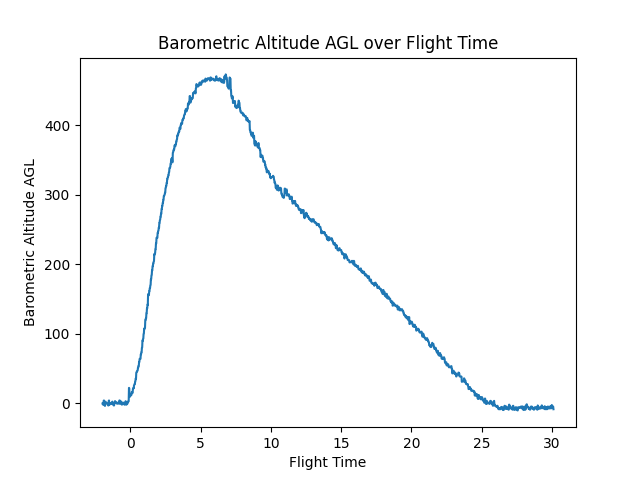
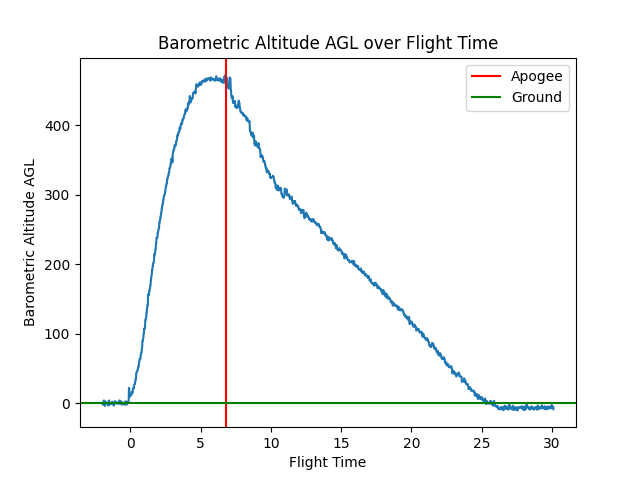
Betta

Changed region(s): [[0.125, 0.8125, 0.9062, 0.8438], [0.7188, 0.125, 0.875, 0.2188]]

diff --git a/Flight Data Analysis Tools/SimpleDataExtract/BlueRaven_LR.py b/Flight Data Analysis Tools/SimpleDataExtract/BlueRaven_LR.py
@@ -18,12 +18,21 @@ class CSVdata():
 class main:
     dataRaw = CSVdata() 
     filename = input("Enter the CSV file path: ") # replace with your actual file path
-    dataRaw.pull(filename) # replace 'your_filename.csv' with your actual file path
+    dataRaw.pull(filename) # load data from CSV
+    
+    # Baro Apogee
+    apogee = max(dataRaw.baro_alt_AGL)
+    apogee_time = dataRaw.flight_time[dataRaw.baro_alt_AGL.index(apogee)]
+    print(f"Apogee (Max Barometric Altitude AGL): {apogee} @ {apogee_time} seconds")
 
+    # Plot: Barometric Altitude AGL over Flight Time
     plt.plot(dataRaw.flight_time, dataRaw.baro_alt_AGL)
+    plt.axvline(apogee_time, color='red', label='Apogee', linestyle='-')
+    plt.axhline(y=0, color='green', label='Ground', linestyle='-')
     plt.title('Barometric Altitude AGL over Flight Time')
     plt.xlabel('Flight Time')
     plt.ylabel('Barometric Altitude AGL')
+    plt.legend()
     plt.show()
 
 if __name__ == "__main__":
